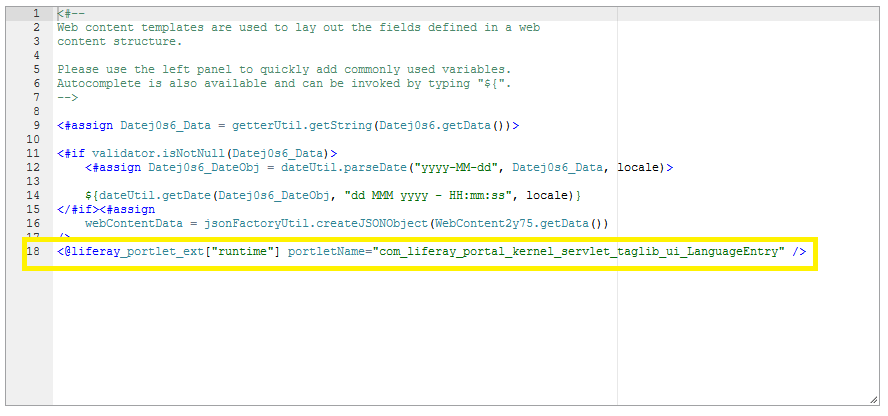
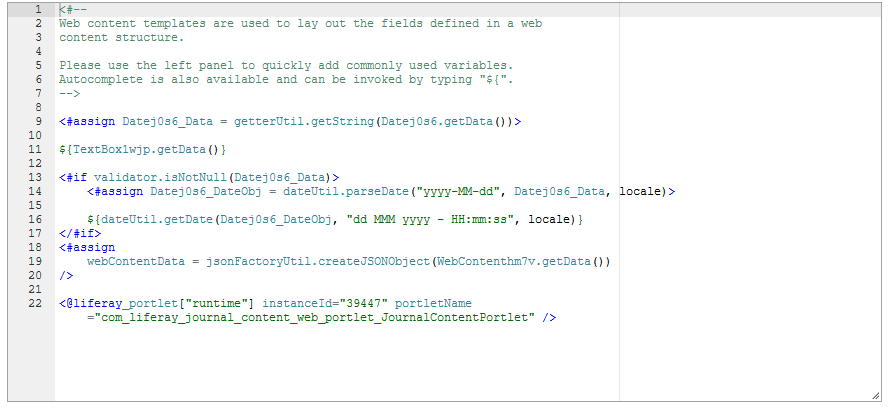
Revised Taglibs article

Changed region(s): [[0.0, 0.0, 1.0, 0.7961], [0.0, 0.9435, 1.0, 1.0]]

diff --git a/docs/dxp/7.x/en/content-authoring-and-management/web-content/user-guide/web-content-templates/using-taglibs-in-templates.md b/docs/dxp/7.x/en/content-authoring-and-management/web-content/user-guide/web-content-templates/using-taglibs-in-templates.md
@@ -1,0 +1,27 @@
+# Using Taglibs in Templates
+
+Liferay's taglibs are also accessible to web content administrators developing in FreeMarker. There is no need to instantiate these taglibs within your FreeMarker template; they're already provided for you automatically. You can access these taglibs by indicating the TLD's file name with underscores.
+
+When you're using DXP's template editor, you can find variables on the left side of the template editor. To place one of the variables onto the template editor:
+
+1. Navigate to your site's (the default DXP site in this example) _Site Administration_.
+1. Click _Content & Data_ &rarr; _Web Content_.
+1. Click on the _Templates_ tab.
+1. Position your cursor where you want the variable placed.
+1. Click the variable name.
+
+If the variable name doesn't give you sufficient information on the variable's functionality, you can hover your pointer over it for a more detailed description.
+
+![You can hover your pointer over a variable for a more detailed description.](./using-taglibs-in-templates/images/web-content-templates-create.png)
+
+The interactive template editor is available for the FreeMarker, Velocity, and XSL languages. Depending on which language you select, the variable content changes so you're always adding content in the language you've chosen. Another cool feature for the template editor is the autocomplete feature. It can be invoked by typing `*${*` which opens a drop-down menu of available variables. By clicking one of the variables, the editor inserts the variable into the template editor.
+
+```note::
+   The `utilLocator`, `objectUtil`, and `staticUtil` variables for FreeMarker are disabled by default. These variables are vulnerable to remote code execution and privilege escalation, and should be used with caution, if enabled.
+```
+
+After you've saved your template, DXP provides a WebDAV URL and static URL. These values access the XML source of your structure. You can find these URLs by returning to your template after it's been saved and expanding the *Details* section. For more information on WebDAV and the uses of the WebDAV URL, reference the [WebDAV Access](../../../documents-and-media/publishing-and-sharing/accessing-documents-with-webdav.md) section.
+
+## Additional Information
+
+* [Embedding Widgets in Templates](./embedding-widgets-in-templates.md)

diff --git a/docs/dxp/7.x/en/content-authoring-and-management/web-content/web-content-templates/embedding-widgets-in-templates.md b/docs/dxp/7.x/en/content-authoring-and-management/web-content/web-content-templates/embedding-widgets-in-templates.md
@@ -1,9 +1,9 @@
 # Embedding Widgets in Templates
 
-You can also embed widgets in web content templates. Core apps and custom apps, instanceable or non-instanceable can be embedded in web content templates. Below is an example of embedding a Language widget in FreeMarker:
+You can also embed widgets in web content templates. Core apps and custom apps, instanceable or non-instanceable can be embedded in web content templates. Below is an example of embedding a Web Content widget in FreeMarker:
 
 ```markup
-<@liferay_portlet_ext["runtime"] portletName="com_liferay_portal_kernel_servlet_taglib_ui_LanguageEntry" />
+<@liferay_portlet["runtime"] portletName="com_liferay_journal_content_web_portlet_JournalContentPortlet" />
 ```
 
 To embed a widget:
@@ -20,9 +20,9 @@ To embed a widget:
 
     ![Select a structure.](./embedding-widgets-in-templates/images/02.png)
 
-1. Paste the `<@liferay_portlet_ext["runtime"] portletName="com_liferay_portal_kernel_servlet_taglib_ui_LanguageEntry" />` in the Template Editor.
+1. Paste your macro (for example, `<@liferay_portlet["runtime"] portletName="com_liferay_journal_content_web_portlet_JournalContentPortlet" />`) in the Template Editor. Depending on whether your portlet is instanceable, you may need to enter the portlet ID.
 
-    ![Select a structure.](./embedding-widgets-in-templates/images/03.png)
+    ![Enter the portlet macro.](./embedding-widgets-in-templates/images/03.png)
 
 1. Click _Save_ when finished.
 
@@ -45,3 +45,5 @@ The *Template Key* can be found when editing a previously published template.
 ![You can find the Template Key when view the Edit page for a template.](./embedding-widgets-in-templates/images/adt-template-key.png)
 
 ## Additional Information
+
+* [Embedding a Portlet by Portlet Name](https://help.liferay.com/hc/articles/360028746512-Embedding-a-Portlet-by-Portlet-Name)

diff --git a/docs/dxp/7.x/en/content-authoring-and-management/web-content/user-guide/README.rst b/docs/dxp/7.x/en/content-authoring-and-management/web-content/user-guide/README.rst
@@ -12,7 +12,7 @@ Coming soon!
 Web Content Templates
 ---------------------
 -  :doc:`/content-authoring-and-management/web-content/user-guide/web-content-templates/embedding-widgets-in-templates`
--  :doc:`/content-authoring-and-management/web-content/user-guide/web-content-templates/template-taglibs`
+-  :doc:`/content-authoring-and-management/web-content/user-guide/web-content-templates/using-taglibs-in-templates`
 
 Auto Tagging
 ------------

diff --git a/docs/dxp/7.x/en/content-authoring-and-management/web-content/README.rst b/docs/dxp/7.x/en/content-authoring-and-management/web-content/README.rst
@@ -17,7 +17,7 @@ Web Content Templates
 ~~~~~~~~~~~~~~~~~~~~~
 
 -  :doc:`/content-authoring-and-management/web-content/user-guide/web-content-templates/embedding-widgets-in-templates`
--  :doc:`/content-authoring-and-management/web-content/user-guide/web-content-templates/template-taglibs`
+-  :doc:`/content-authoring-and-management/web-content/user-guide/web-content-templates/using-taglibs-in-templates`
 
 Auto Tagging
 ~~~~~~~~~~~~

diff --git a/docs/dxp/7.x/en/content-authoring-and-management/web-content/web-content-templates/README.rst b/docs/dxp/7.x/en/content-authoring-and-management/web-content/web-content-templates/README.rst
@@ -2,4 +2,4 @@ Web Content Templates
 =====================
 
 -  :doc:`/content-authoring-and-management/web-content/user-guide/web-content-templates/embedding-widgets-in-templates`
--  :doc:`/content-authoring-and-management/web-content/user-guide/web-content-templates/template-taglibs`
+-  :doc:`/content-authoring-and-management/web-content/user-guide/web-content-templates/using-taglibs-in-templates`

diff --git a/docs/dxp/7.x/en/content-authoring-and-management/web-content/user-guide/web_content_templates.rst b/docs/dxp/7.x/en/content-authoring-and-management/web-content/user-guide/web_content_templates.rst
@@ -5,7 +5,7 @@ Web Content Templates
    :maxdepth: 2
 
    /web-content-templates/embedding-widgets-in-templates.md 
-   /web-content-templates/template-taglibs.md 
+   /web-content-templates/using-taglibs-in-templates.md 
 
 .. include:: /content-authoring-and-management/web-content/user-guide/web-content-templates/README.rst
    :start-line: 2
